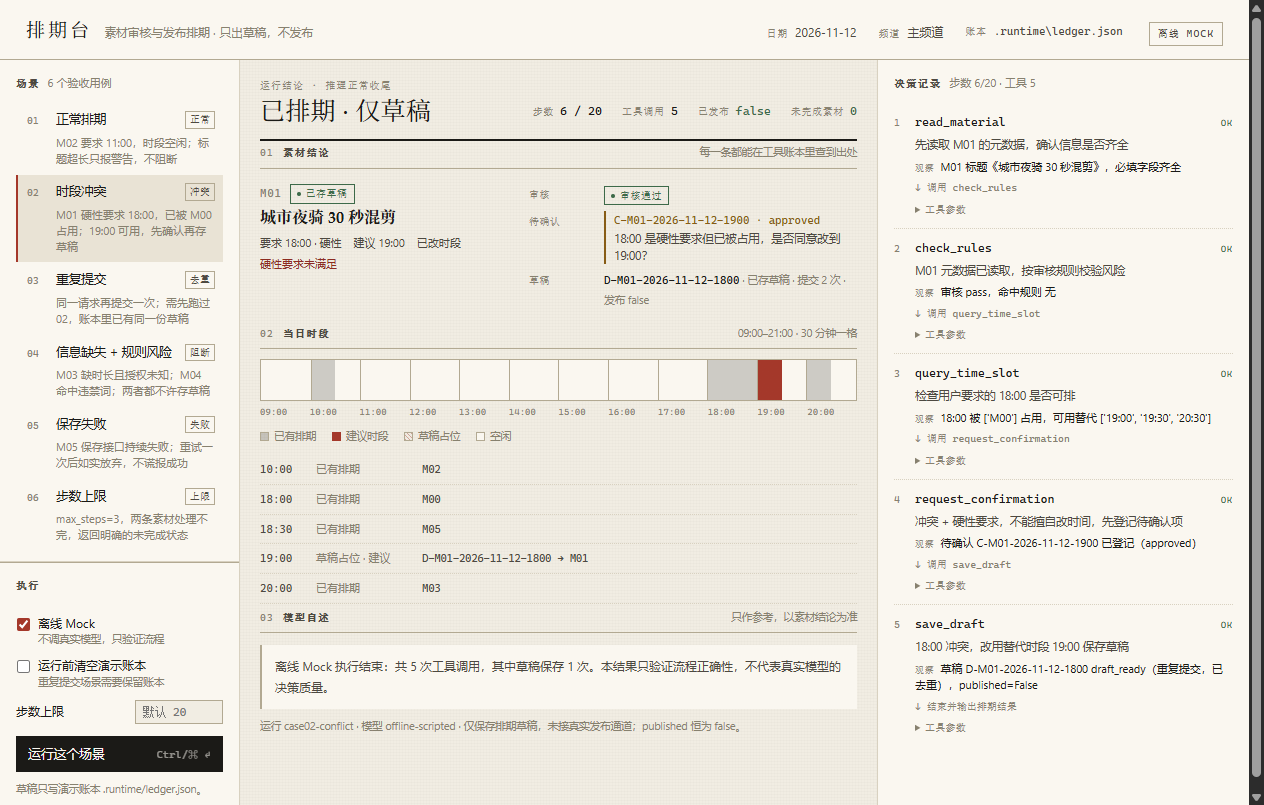
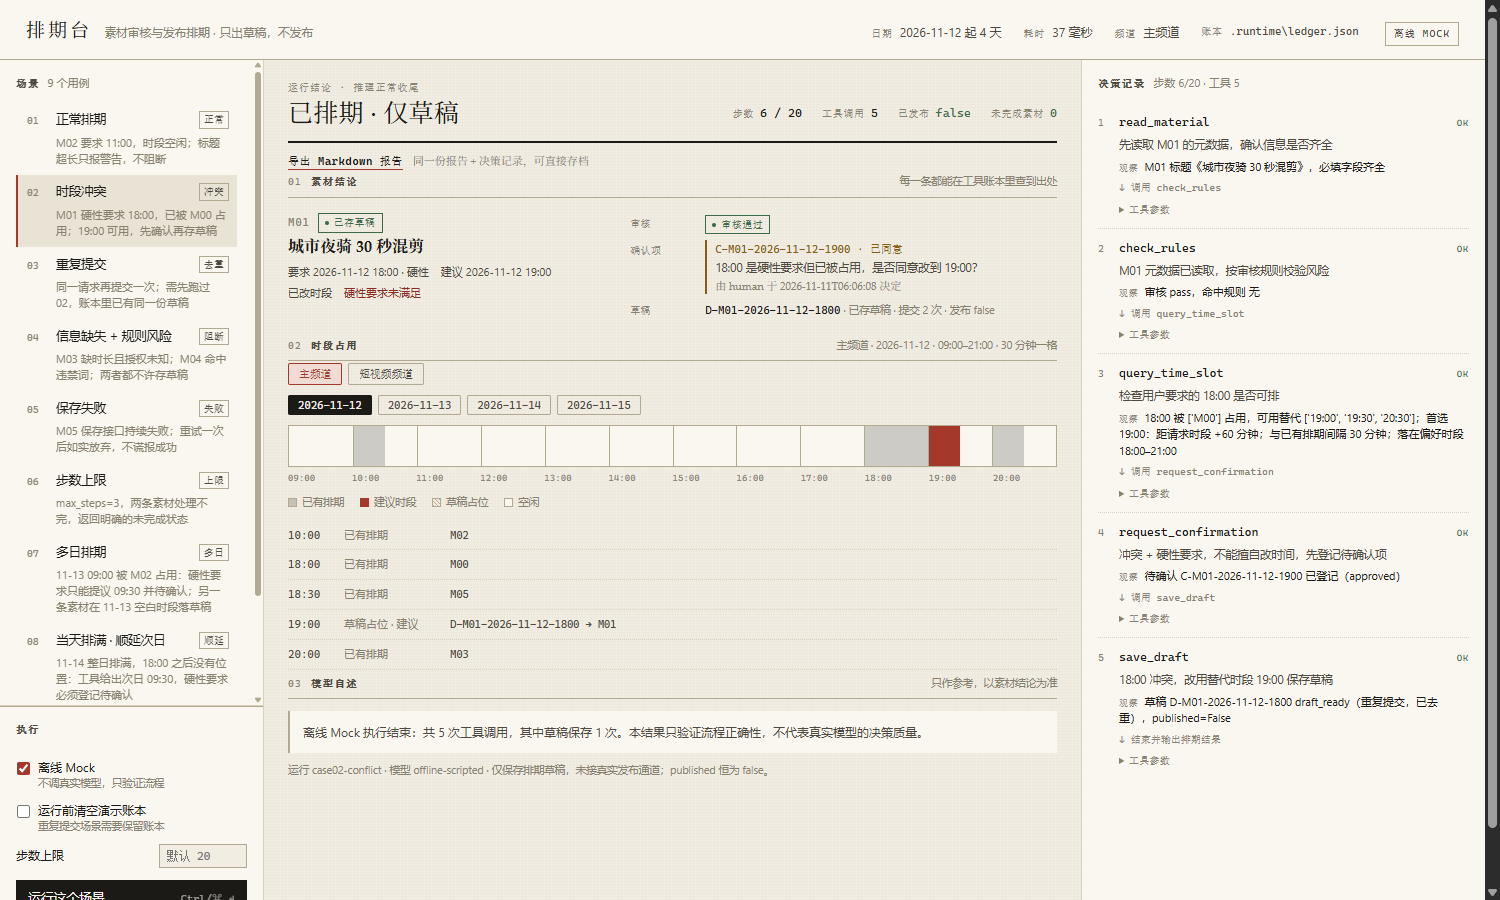
docs(confirm): 补人工拍板留痕的说明与截图

diff --git a/docs/03-evaluation.md b/docs/03-evaluation.md
@@ -4,7 +4,7 @@
 
 ```
 .venv/Scripts/python.exe -m unittest discover -s tests -t . -v   # 40 passed
-.venv/Scripts/python.exe scripts/run_examples.py                 # 重跑 6 个用例
+.venv/Scripts/python.exe scripts/run_examples.py                 # 重跑 9 个用例
 ```
 
 原始输出见 `examples/test-results.txt`。测试分三层：
@@ -67,9 +67,9 @@
 | `docs/images/web-04-save-failure.png` | 保存失败 | 结论「存在失败项」；M05「保存失败」、草稿「未保存（失败 2 次）」；trace 末两步 `FAIL` |
 | `docs/images/web-06-step-limit.png` | 步数上限 | 结论「步数上限中断」；`步数 3/3`；M02「未完成」、M05「未处理」，模型自述写明未收尾 |
 | `docs/images/web-02-conflict-live.png` | 02 走真实模型 | 右上角切到「真实模型」；`步数 5/20`、`工具 5`；决策依据栏是模型自己写的理由，结论同为「待用户确认」，`已发布 false` |
-| `docs/images/web-02-conflict-approved.png` | 人工确认后重跑 | 点「记为用户已确认」后确认项变 `approved`、结论变「已排期 · 仅草稿」、`requires_user_confirmation=false`、`published` 仍为 false |
+| `docs/images/web-02-conflict-approved.png` | 人工确认后重跑 | 点「记为用户已确认」后确认项变「已同意」并带「由 human 于 … 决定」、结论变「已排期 · 仅草稿」、`requires_user_confirmation=false`、`published` 仍为 false |
 | `docs/images/web-02-conflict-replan.png` | 人改选前 | 待确认项下面除了「同意 / 不同意」，还列出工具给过的候选（19:30、20:30）和「改到所选时段」；草稿仍是 `draft_pending_confirmation` |
-| `docs/images/web-02-conflict-replanned.png` | 人改选 20:30 后重跑 | 原方案 `rejected`、新记录 `approved`（`replanned_from` 指回原方案）；模型先撞 `CONFIRMATION_REJECTED`，再改存 20:30 落 `draft_ready`；结论「已排期 · 仅草稿」、`published=false` |
+| `docs/images/web-02-conflict-replanned.png` | 人改选 20:30 后重跑 | 原方案「已否决」、新记录「已同意」并带「改选自 C-M01-2026-11-12-1900」与决定时间（`replanned_from` 指回原方案）；模型先撞 `CONFIRMATION_REJECTED`，再改存 20:30 落 `draft_ready`；结论「已排期 · 仅草稿」、`published=false` |
 | `docs/images/web-02-conflict-rejected.png` | 人工否决后重跑 | 点「不同意这个改期」后：结论「存在失败项」、素材状态「改期被否决」；确认项 `rejected`、草稿「已否决 · 草稿作废」；第 5 步观察是 `CONFIRMATION_REJECTED`（FAIL），`published` 仍为 false |
 | `docs/images/web-02-conflict-streaming.png` | 真实模型运行中（第 3 条决策） | 右栏逐条推送（`执行中 · 已产生 3 条决策记录`，朱红呼吸点），中间上一轮结论压暗；跑完后恢复亮度并换成新结果 |
 | `docs/images/web-narrow.png` | 884px 窄屏（单列） | 三栏在 ≤1000px 折成一列，场景列表、执行区、结论依次堆叠；顶栏出现「耗时 43 毫秒」，说明计时来自本轮真实运行而不是写死 |

diff --git a/docs/02-solution.md b/docs/02-solution.md
@@ -59,6 +59,13 @@
   是否真的排上要看 `outcome`（scheduled / pending_confirmation / partial / failed / incomplete）。
   这样"保存失败"既不会被说成成功，也不会被误读成流程崩了。
 
+## 人的拍板要能只读回放
+
+确认项不是布尔开关，而是一条记录：`status`（pending / approved / rejected）、`decided_by`、`decided_at`，
+改选时还有 `replanned_from` 指回被否决的那一版。报告的 `pending_confirmations` 把这些字段一并带出来，
+所以「谁在什么时候批准了哪一版」不用去翻账本、更不用问模型——Markdown 报告与界面的「确认项」读的是同一份数据。
+字段名沿用 `pending_confirmations` 是历史包袱（它装的其实是该请求的全部确认项），改名的收益不如保持旧产物可读。
+
 ## 步数上限
 `agent` 节点入口先判 `steps >= max_steps`，达到上限直接返回 `terminal=step_limit_reached` 且**不再调用模型**。
 上限优先级：`--max-steps` > 输入 `options.max_steps` > 环境变量 `MAX_STEPS` > 20。

diff --git a/docs/05-retrospective.md b/docs/05-retrospective.md
@@ -94,4 +94,10 @@
 `LEDGER_BUSY`，宁可让这次运行失败，也不要把不确定的结果当成功。给出的教训是：凡是"读-改-写"的存储，
 原子写 ≠ 并发安全；而并发 bug 的测试必须能被证明有牙——我用"把事务换回空壳"跑了一遍，草稿数从 2 掉到 1。
 
+这一轮补的是"人的拍板看得见"。批准之后，报告里只剩一句 `requires_user_confirmation=false`，
+说不出是谁批的、什么时候批的；界面上更直接——确认项的状态是英文 `approved`/`rejected` 原样贴出来。
+改法是把决定写进记录（`decided_by`/`decided_at`/`replanned_from`）并一路带到报告与界面，
+状态改成中文。教训是：只写`status`的确认项只能证明"有人点过"，证明不了"谁在何时同意了什么"，
+而题面要的"确认边界"恰恰是后者。
+
 未完成：带鉴权的 API、账本的多副本/数据库事务（现在只有单文件互斥）。
